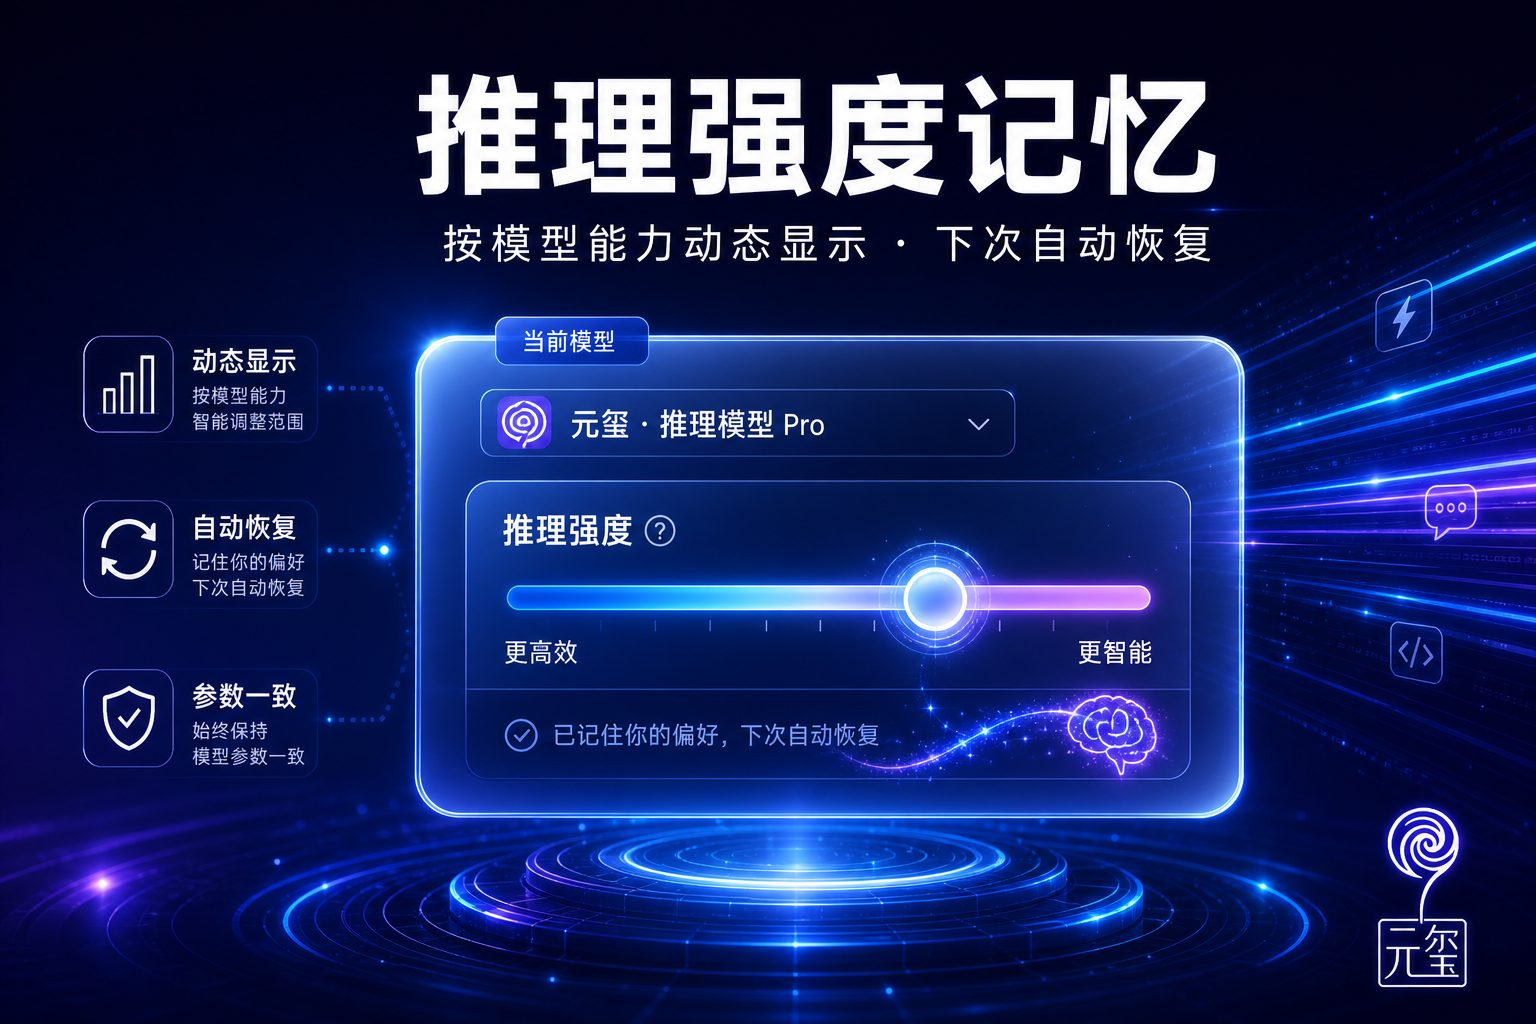
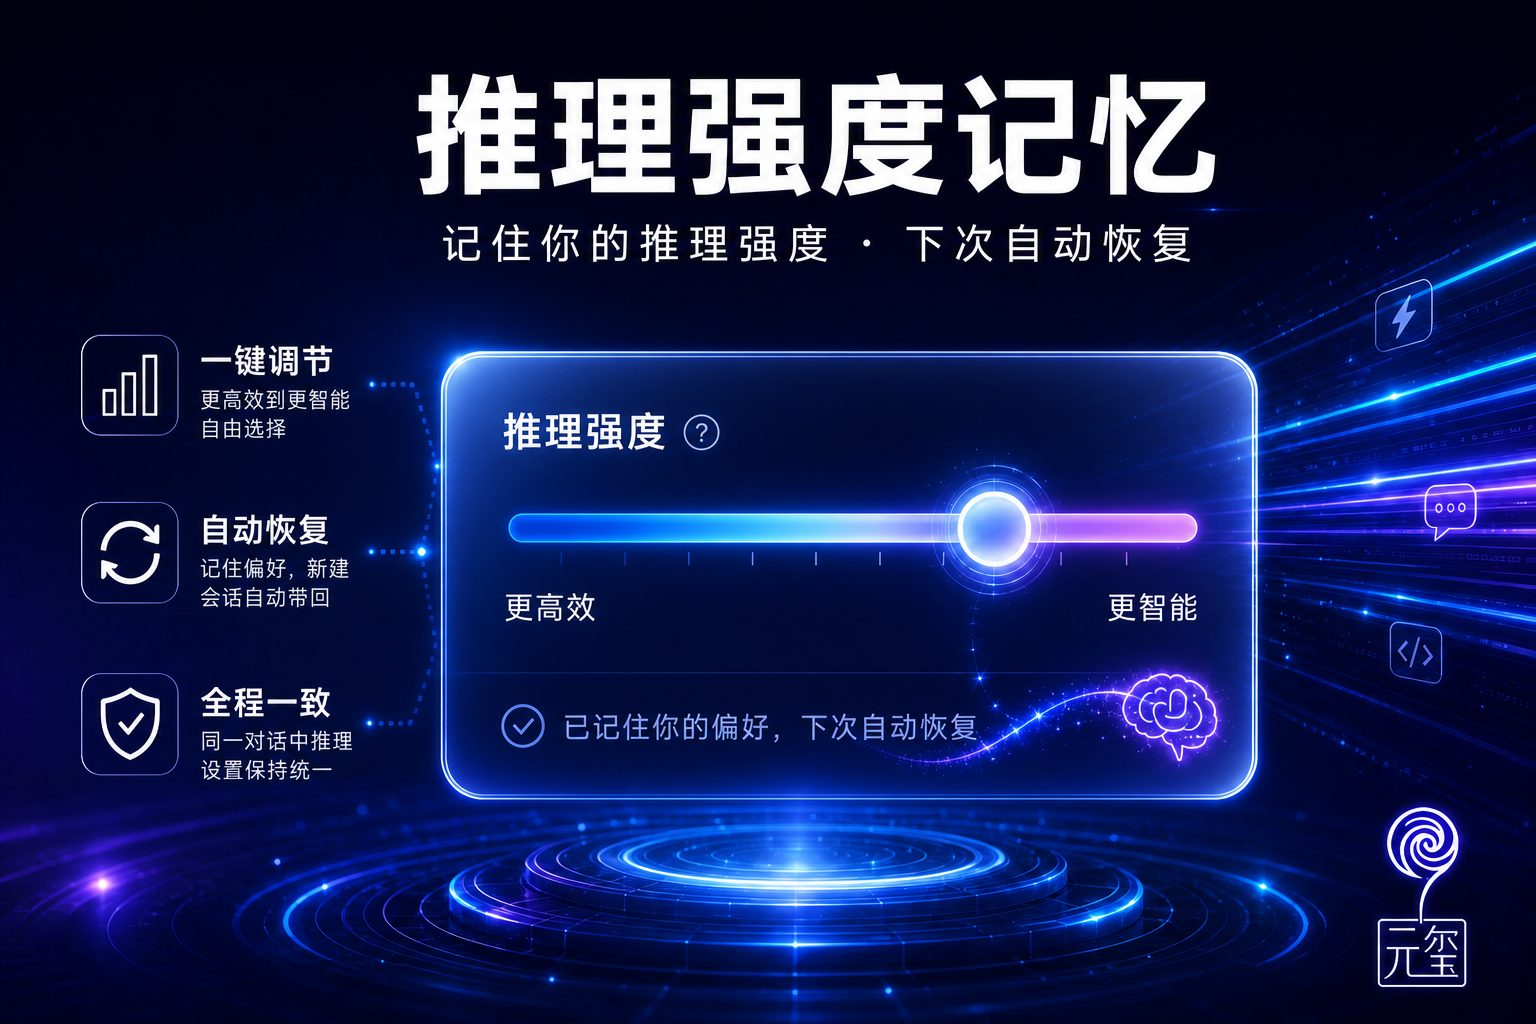
Clarify reasoning preference copy without model switching

diff --git a/index.html b/index.html
@@ -5,8 +5,6 @@
 <meta name="viewport" content="width=device-width, initial-scale=1.0">
 <title>元玺 v1.7.0 更新日志预览</title>
 <meta http-equiv="Cache-Control" content="no-cache, no-store, must-revalidate" />
-<meta http-equiv="Pragma" content="no-cache" />
-<meta http-equiv="Expires" content="0" />
 <script src="https://cdn.jsdelivr.net/npm/marked/marked.min.js"></script>
 <style>
   body { margin:0; background:#f5f6fa; font-family:-apple-system,BlinkMacSystemFont,"PingFang SC","Helvetica Neue",sans-serif; color:#2c2c34; }
@@ -26,12 +24,12 @@
 <body>
 <div class="meta">
   <h1>对话体验升级与会话分支</h1>
-  <p>新增对话过程摘要与会话分支；推理强度按模型记忆并自动恢复；引导消息队列支持排队、撤回、重试与草稿恢复，任务执行更连贯可控。</p>
+  <p>新增对话过程摘要与会话分支，过程更清晰、探索更灵活；记住你选择的推理强度，新建会话时自动恢复；引导消息支持排队、撤回、重试与草稿恢复，任务执行更连贯可控。</p>
   <p><span class="tag">v1.7.0</span><span class="tag">更新范围 2026.07.22 - 2026.07.31</span><span class="tag">重大版本</span></p>
 </div>
 <div class="card" id="content"></div>
 <script>
-const md = "## 元玺 v1.7.0 更新日志\n\n![元玺 v1.7.0 封面图](images/1.7.0_cover.jpg)\n\n本次版本全面升级**对话体验**，新增过程摘要与会话分支，让思考、工具调用与结果一目了然；同时打磨**模型与推理**选择记忆，推理强度按模型能力动态适配并自动恢复；引导消息队列与工作台体验同步优化，任务执行更连贯、更可控。\n\n### 版本核心亮点\n\n1. **对话过程摘要**：统一展示思考、工具调用与处理结果，长对话阅读更清晰；\n2. **会话分支能力**：可从任意 AI 回复创建新会话分支，保留对应上下文继续探索；\n3. **推理偏好记忆**：按模型记忆推理强度与最近选择，新建会话自动恢复，参数全程保持一致。\n\n---\n\n## ✨ 新增与重大升级\n\n### 🧠 对话过程摘要：看清每一步在做什么\n\n![对话过程摘要配图](images/1.7.0_content_1.jpg)\n\n对话过程中的关键节点现已统一汇总展示，复杂任务执行过程更易理解：\n\n- **过程一目了然**：思考、工具调用与处理结果集中呈现，减少来回翻找；\n- **状态反馈更及时**：优化流式响应首包反馈与思考状态文案，等待不再茫然；\n- **折叠更顺手**：思考内容支持更清晰的折叠与展开，界面更干净。\n\n> 从「只看到最终答案」，到「清楚每一步如何走到结果」。\n\n### 🌿 会话分支：从任意回复开启新探索\n\n![会话分支配图](images/1.7.0_content_2.jpg)\n\n支持从任意一条 AI 回复创建新会话分支，并保留对应上下文：\n\n- **一键分叉**：在满意节点处开新分支，无需从头重说；\n- **上下文延续**：分支继承原对话相关上下文，继续深入更顺畅；\n- **多方向并行**：同一任务可探索不同方案与表达，互不干扰。\n\n### ⚡ 推理强度记忆：选过一次，下次自动跟上\n\n![推理强度记忆配图](images/1.7.0_content_3.jpg)\n\n模型与推理参数体验完成一轮打磨，选择更省心、结果更一致：\n\n- **按能力动态显示**：推理强度根据模型能力动态呈现，避免无效选项；\n- **偏好自动恢复**：按模型记忆推理强度与最近选择，新建会话自动带上；\n- **参数全程一致**：新建会话、后续消息与延迟消息中的模型与推理参数保持统一；\n- **滑块更好用**：支持悬停滑动选择，并以「更高效 / 更智能」引导理解档位差异。\n\n### 📬 引导消息队列：任务进行中也能继续补充\n\n![引导消息队列配图](images/1.7.0_content_4.jpg)\n\n任务运行期间支持追加引导消息，并完善队列管理能力：\n\n- **运行中可补充**：无需等待当前任务结束，即可继续追加指令；\n- **排队、撤回、重试**：队列操作更完整，过程可控可纠错；\n- **草稿可恢复**：刷新后仍可恢复未完成状态与输入草稿，中断不再丢进度。\n\n---\n\n## 🛠 体验优化\n\n- 优化长对话滚动跟随、用户消息定位与任务状态展示，阅读与定位更顺畅；\n- 优化队列错误提示、长文本展示及提交后的自动滚动；\n- 优化虚拟电脑全屏、移动端布局及加载状态；\n- 工具执行失败时仍可打开查看详情，排查问题更方便。\n\n---\n\n## 🐛 问题修复\n\n- 修复 AskUser 表单中转义字符丢失问题；\n- 修复上传失败文件仍触发服务端删除请求的问题；\n- 优化输入草稿 HTML 清理与附件恢复，草稿还原更稳定。\n\n---\n\n感谢每一位用户的信任与支持 ❤\n\n**元玺，让 AI 成为你的超能力。**\n";
+const md = "## 元玺 v1.7.0 更新日志\n\n![元玺 v1.7.0 封面图](images/1.7.0_cover.jpg)\n\n本次版本全面升级**对话体验**，新增过程摘要与会话分支，让思考、工具调用与结果一目了然；同时支持**记住你选择的推理强度**，新建会话时自动恢复；引导消息队列与工作台体验同步优化，任务执行更连贯、更可控。\n\n### 版本核心亮点\n\n1. **对话过程摘要**：统一展示思考、工具调用与处理结果，长对话阅读更清晰；\n2. **会话分支能力**：可从任意 AI 回复创建新会话分支，保留对应上下文继续探索；\n3. **推理偏好记忆**：记住你选择的推理强度，新建会话自动恢复，对话过程中保持一致。\n\n---\n\n## ✨ 新增与重大升级\n\n### 🧠 对话过程摘要：看清每一步在做什么\n\n![对话过程摘要配图](images/1.7.0_content_1.jpg)\n\n对话过程中的关键节点现已统一汇总展示，复杂任务执行过程更易理解：\n\n- **过程一目了然**：思考、工具调用与处理结果集中呈现，减少来回翻找；\n- **状态反馈更及时**：优化流式响应首包反馈与思考状态文案，等待不再茫然；\n- **折叠更顺手**：思考内容支持更清晰的折叠与展开，界面更干净。\n\n> 从「只看到最终答案」，到「清楚每一步如何走到结果」。\n\n### 🌿 会话分支：从任意回复开启新探索\n\n![会话分支配图](images/1.7.0_content_2.jpg)\n\n支持从任意一条 AI 回复创建新会话分支，并保留对应上下文：\n\n- **一键分叉**：在满意节点处开新分支，无需从头重说；\n- **上下文延续**：分支继承原对话相关上下文，继续深入更顺畅；\n- **多方向并行**：同一任务可探索不同方案与表达，互不干扰。\n\n### ⚡ 推理强度记忆：选过一次，下次自动跟上\n\n![推理强度记忆配图](images/1.7.0_content_3.jpg)\n\n推理强度选择体验完成一轮打磨，选过一次即可记住，下次开聊不必重选：\n\n- **偏好自动恢复**：记住你选择的推理强度，新建会话时自动带回；\n- **过程保持一致**：同一对话中后续消息与延迟消息沿用相同推理设置；\n- **滑块更好用**：支持悬停滑动选择，并以「更高效 / 更智能」引导理解档位差异。\n\n### 📬 引导消息队列：任务进行中也能继续补充\n\n![引导消息队列配图](images/1.7.0_content_4.jpg)\n\n任务运行期间支持追加引导消息，并完善队列管理能力：\n\n- **运行中可补充**：无需等待当前任务结束，即可继续追加指令；\n- **排队、撤回、重试**：队列操作更完整，过程可控可纠错；\n- **草稿可恢复**：刷新后仍可恢复未完成状态与输入草稿，中断不再丢进度。\n\n---\n\n## 🛠 体验优化\n\n- 优化长对话滚动跟随、用户消息定位与任务状态展示，阅读与定位更顺畅；\n- 优化队列错误提示、长文本展示及提交后的自动滚动；\n- 优化虚拟电脑全屏、移动端布局及加载状态；\n- 工具执行失败时仍可打开查看详情，排查问题更方便。\n\n---\n\n## 🐛 问题修复\n\n- 修复 AskUser 表单中转义字符丢失问题；\n- 修复上传失败文件仍触发服务端删除请求的问题；\n- 优化输入草稿 HTML 清理与附件恢复，草稿还原更稳定。\n\n---\n\n感谢每一位用户的信任与支持 ❤\n\n**元玺，让 AI 成为你的超能力。**\n";
 document.getElementById('content').innerHTML = marked.parse(md);
 </script>
 </body>

diff --git a/preview.html b/preview.html
@@ -5,8 +5,6 @@
 <meta name="viewport" content="width=device-width, initial-scale=1.0">
 <title>元玺 v1.7.0 更新日志预览</title>
 <meta http-equiv="Cache-Control" content="no-cache, no-store, must-revalidate" />
-<meta http-equiv="Pragma" content="no-cache" />
-<meta http-equiv="Expires" content="0" />
 <script src="https://cdn.jsdelivr.net/npm/marked/marked.min.js"></script>
 <style>
   body { margin:0; background:#f5f6fa; font-family:-apple-system,BlinkMacSystemFont,"PingFang SC","Helvetica Neue",sans-serif; color:#2c2c34; }
@@ -26,12 +24,12 @@
 <body>
 <div class="meta">
   <h1>对话体验升级与会话分支</h1>
-  <p>新增对话过程摘要与会话分支；推理强度按模型记忆并自动恢复；引导消息队列支持排队、撤回、重试与草稿恢复，任务执行更连贯可控。</p>
+  <p>新增对话过程摘要与会话分支，过程更清晰、探索更灵活；记住你选择的推理强度，新建会话时自动恢复；引导消息支持排队、撤回、重试与草稿恢复，任务执行更连贯可控。</p>
   <p><span class="tag">v1.7.0</span><span class="tag">更新范围 2026.07.22 - 2026.07.31</span><span class="tag">重大版本</span></p>
 </div>
 <div class="card" id="content"></div>
 <script>
-const md = "## 元玺 v1.7.0 更新日志\n\n![元玺 v1.7.0 封面图](images/1.7.0_cover.jpg)\n\n本次版本全面升级**对话体验**，新增过程摘要与会话分支，让思考、工具调用与结果一目了然；同时打磨**模型与推理**选择记忆，推理强度按模型能力动态适配并自动恢复；引导消息队列与工作台体验同步优化，任务执行更连贯、更可控。\n\n### 版本核心亮点\n\n1. **对话过程摘要**：统一展示思考、工具调用与处理结果，长对话阅读更清晰；\n2. **会话分支能力**：可从任意 AI 回复创建新会话分支，保留对应上下文继续探索；\n3. **推理偏好记忆**：按模型记忆推理强度与最近选择，新建会话自动恢复，参数全程保持一致。\n\n---\n\n## ✨ 新增与重大升级\n\n### 🧠 对话过程摘要：看清每一步在做什么\n\n![对话过程摘要配图](images/1.7.0_content_1.jpg)\n\n对话过程中的关键节点现已统一汇总展示，复杂任务执行过程更易理解：\n\n- **过程一目了然**：思考、工具调用与处理结果集中呈现，减少来回翻找；\n- **状态反馈更及时**：优化流式响应首包反馈与思考状态文案，等待不再茫然；\n- **折叠更顺手**：思考内容支持更清晰的折叠与展开，界面更干净。\n\n> 从「只看到最终答案」，到「清楚每一步如何走到结果」。\n\n### 🌿 会话分支：从任意回复开启新探索\n\n![会话分支配图](images/1.7.0_content_2.jpg)\n\n支持从任意一条 AI 回复创建新会话分支，并保留对应上下文：\n\n- **一键分叉**：在满意节点处开新分支，无需从头重说；\n- **上下文延续**：分支继承原对话相关上下文，继续深入更顺畅；\n- **多方向并行**：同一任务可探索不同方案与表达，互不干扰。\n\n### ⚡ 推理强度记忆：选过一次，下次自动跟上\n\n![推理强度记忆配图](images/1.7.0_content_3.jpg)\n\n模型与推理参数体验完成一轮打磨，选择更省心、结果更一致：\n\n- **按能力动态显示**：推理强度根据模型能力动态呈现，避免无效选项；\n- **偏好自动恢复**：按模型记忆推理强度与最近选择，新建会话自动带上；\n- **参数全程一致**：新建会话、后续消息与延迟消息中的模型与推理参数保持统一；\n- **滑块更好用**：支持悬停滑动选择，并以「更高效 / 更智能」引导理解档位差异。\n\n### 📬 引导消息队列：任务进行中也能继续补充\n\n![引导消息队列配图](images/1.7.0_content_4.jpg)\n\n任务运行期间支持追加引导消息，并完善队列管理能力：\n\n- **运行中可补充**：无需等待当前任务结束，即可继续追加指令；\n- **排队、撤回、重试**：队列操作更完整，过程可控可纠错；\n- **草稿可恢复**：刷新后仍可恢复未完成状态与输入草稿，中断不再丢进度。\n\n---\n\n## 🛠 体验优化\n\n- 优化长对话滚动跟随、用户消息定位与任务状态展示，阅读与定位更顺畅；\n- 优化队列错误提示、长文本展示及提交后的自动滚动；\n- 优化虚拟电脑全屏、移动端布局及加载状态；\n- 工具执行失败时仍可打开查看详情，排查问题更方便。\n\n---\n\n## 🐛 问题修复\n\n- 修复 AskUser 表单中转义字符丢失问题；\n- 修复上传失败文件仍触发服务端删除请求的问题；\n- 优化输入草稿 HTML 清理与附件恢复，草稿还原更稳定。\n\n---\n\n感谢每一位用户的信任与支持 ❤\n\n**元玺，让 AI 成为你的超能力。**\n";
+const md = "## 元玺 v1.7.0 更新日志\n\n![元玺 v1.7.0 封面图](images/1.7.0_cover.jpg)\n\n本次版本全面升级**对话体验**，新增过程摘要与会话分支，让思考、工具调用与结果一目了然；同时支持**记住你选择的推理强度**，新建会话时自动恢复；引导消息队列与工作台体验同步优化，任务执行更连贯、更可控。\n\n### 版本核心亮点\n\n1. **对话过程摘要**：统一展示思考、工具调用与处理结果，长对话阅读更清晰；\n2. **会话分支能力**：可从任意 AI 回复创建新会话分支，保留对应上下文继续探索；\n3. **推理偏好记忆**：记住你选择的推理强度，新建会话自动恢复，对话过程中保持一致。\n\n---\n\n## ✨ 新增与重大升级\n\n### 🧠 对话过程摘要：看清每一步在做什么\n\n![对话过程摘要配图](images/1.7.0_content_1.jpg)\n\n对话过程中的关键节点现已统一汇总展示，复杂任务执行过程更易理解：\n\n- **过程一目了然**：思考、工具调用与处理结果集中呈现，减少来回翻找；\n- **状态反馈更及时**：优化流式响应首包反馈与思考状态文案，等待不再茫然；\n- **折叠更顺手**：思考内容支持更清晰的折叠与展开，界面更干净。\n\n> 从「只看到最终答案」，到「清楚每一步如何走到结果」。\n\n### 🌿 会话分支：从任意回复开启新探索\n\n![会话分支配图](images/1.7.0_content_2.jpg)\n\n支持从任意一条 AI 回复创建新会话分支，并保留对应上下文：\n\n- **一键分叉**：在满意节点处开新分支，无需从头重说；\n- **上下文延续**：分支继承原对话相关上下文，继续深入更顺畅；\n- **多方向并行**：同一任务可探索不同方案与表达，互不干扰。\n\n### ⚡ 推理强度记忆：选过一次，下次自动跟上\n\n![推理强度记忆配图](images/1.7.0_content_3.jpg)\n\n推理强度选择体验完成一轮打磨，选过一次即可记住，下次开聊不必重选：\n\n- **偏好自动恢复**：记住你选择的推理强度，新建会话时自动带回；\n- **过程保持一致**：同一对话中后续消息与延迟消息沿用相同推理设置；\n- **滑块更好用**：支持悬停滑动选择，并以「更高效 / 更智能」引导理解档位差异。\n\n### 📬 引导消息队列：任务进行中也能继续补充\n\n![引导消息队列配图](images/1.7.0_content_4.jpg)\n\n任务运行期间支持追加引导消息，并完善队列管理能力：\n\n- **运行中可补充**：无需等待当前任务结束，即可继续追加指令；\n- **排队、撤回、重试**：队列操作更完整，过程可控可纠错；\n- **草稿可恢复**：刷新后仍可恢复未完成状态与输入草稿，中断不再丢进度。\n\n---\n\n## 🛠 体验优化\n\n- 优化长对话滚动跟随、用户消息定位与任务状态展示，阅读与定位更顺畅；\n- 优化队列错误提示、长文本展示及提交后的自动滚动；\n- 优化虚拟电脑全屏、移动端布局及加载状态；\n- 工具执行失败时仍可打开查看详情，排查问题更方便。\n\n---\n\n## 🐛 问题修复\n\n- 修复 AskUser 表单中转义字符丢失问题；\n- 修复上传失败文件仍触发服务端删除请求的问题；\n- 优化输入草稿 HTML 清理与附件恢复，草稿还原更稳定。\n\n---\n\n感谢每一位用户的信任与支持 ❤\n\n**元玺，让 AI 成为你的超能力。**\n";
 document.getElementById('content').innerHTML = marked.parse(md);
 </script>
 </body>
